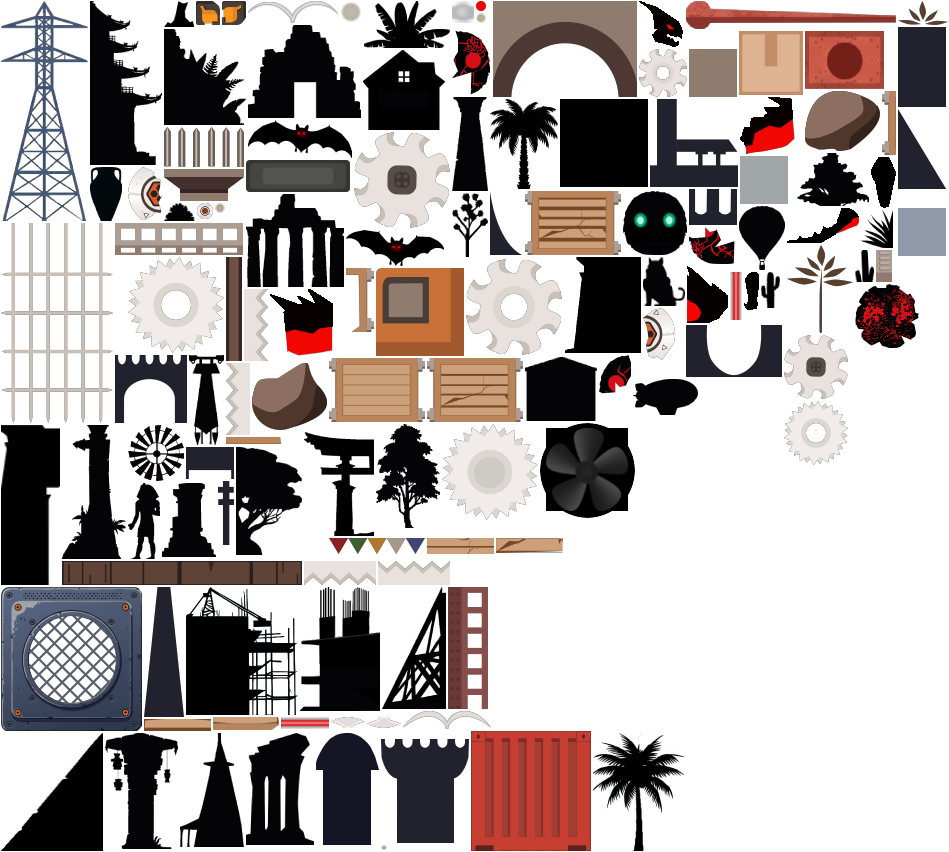
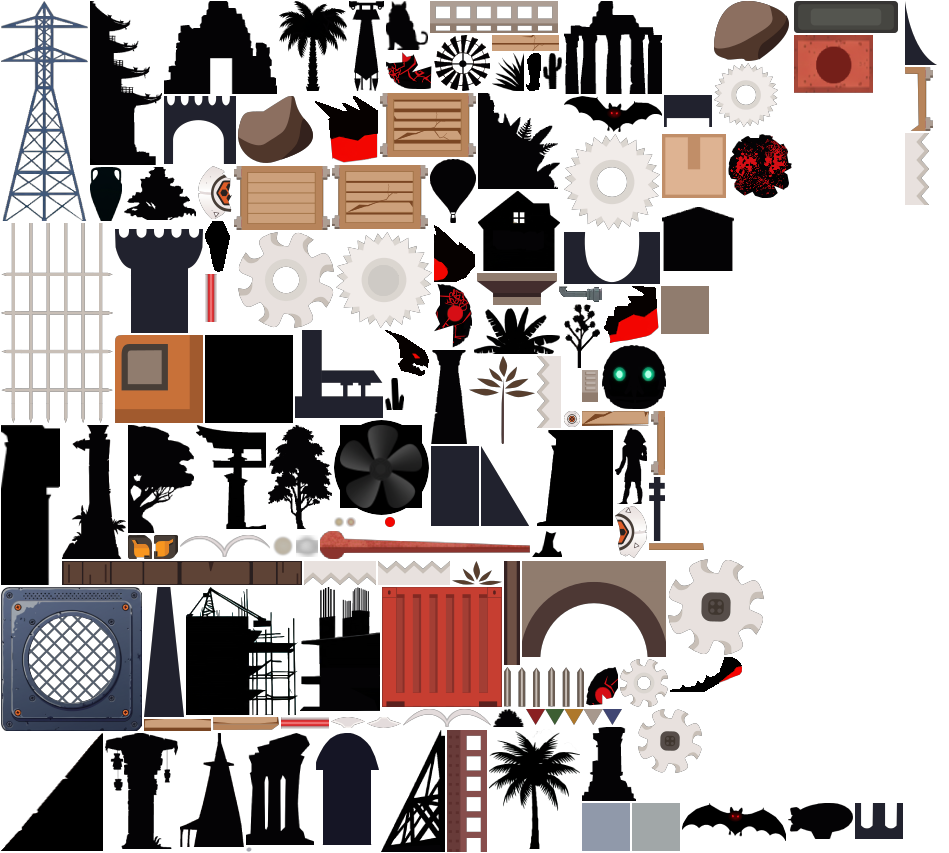
Implement actual vent

diff --git a/src/screens/Game/makeFactories.js b/src/screens/Game/makeFactories.js
@@ -13,6 +13,7 @@ import Crate from "@entities/Crate"
 import Pool from "@utils/Pool"
 import Bus from "@entities/Bus"
 import LeverSaw from "../../entities/LeverSaw"
+import Vent from "../../entities/Vent"
 import config from "@config"
 
 import particlesId from "@assets/particles/all.cson"
@@ -138,6 +139,10 @@ export default ({ soundSprite, assetsCache, storage, player, state }) => { // us
         },
         leverSaw: (x, y, props, player)  => {
             return new LeverSaw({x, y, length: props.length, player})
+        },
+        vent: (x, y)  => {
+            console.log("Vent", { x, y })
+            return new Vent(x, y)
         },
         monster: (x, y, props={}, player) => {
             return new Monster({x, y, player, ...props })

diff --git a/src/entities/Vent.js b/src/entities/Vent.js
@@ -1,0 +1,20 @@
+import { Node, TexRegion } from "@lib/index";
+class Vent extends Node {
+    noOverlay=true
+    constructor(x, y) {
+        super({
+            pos: { x, y }
+        })
+        this.fan = new TexRegion({ frame: "fan", pos: { x: 24, y: 24, }})
+        this.vent = new TexRegion({ frame: "vent", pos: { x: 0, y: 0 }})
+        this.fan.rotation = 0
+        this.fan.anchor = { x: 47, y: 47 }
+        this.add(this.fan)
+        this.add(this.vent)
+    }
+    update(dt) {
+        this.fan.rotation += 6 * dt
+    }
+}
+
+export default Vent

diff --git a/scripts/helpers/factories/index.js b/scripts/helpers/factories/index.js
@@ -109,10 +109,14 @@ const factories = {
         },
         create: params => {
             const { x, y } = params
-            return [
+            const result = [
                 { x: x, y: y, name: "vent"},
-                { x: x + 70, y, name: "wind" }
+                { x: x + 64, y: y - 4, name: "wind" }
             ]
+            result.colRects = [
+                { x, y, w: 141, h: 144}
+            ]
+            return result
         }
     },
     fire: {

diff --git a/src/entities/Wind.js b/src/entities/Wind.js
@@ -47,7 +47,7 @@ class Wind extends Node {
         this.pos.y = y - 9
         this.player = player
         // this.sound = sound
-        this.hitbox = { x: -25, y: -200, width: 50, height: 200}
+        this.hitbox = { x: -24, y: -240, width: 48, height: 200}
         this.testCol = getTestFn(this, player)
 
 
